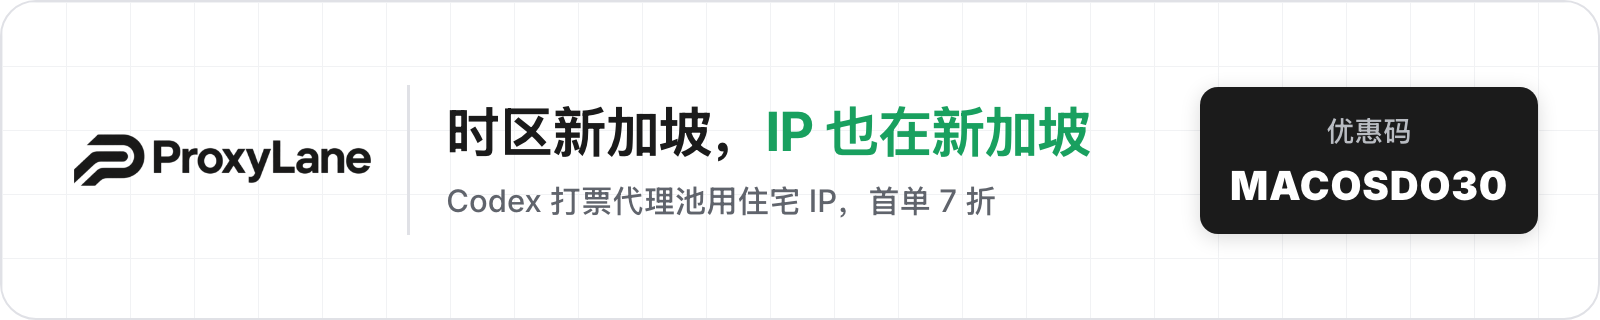
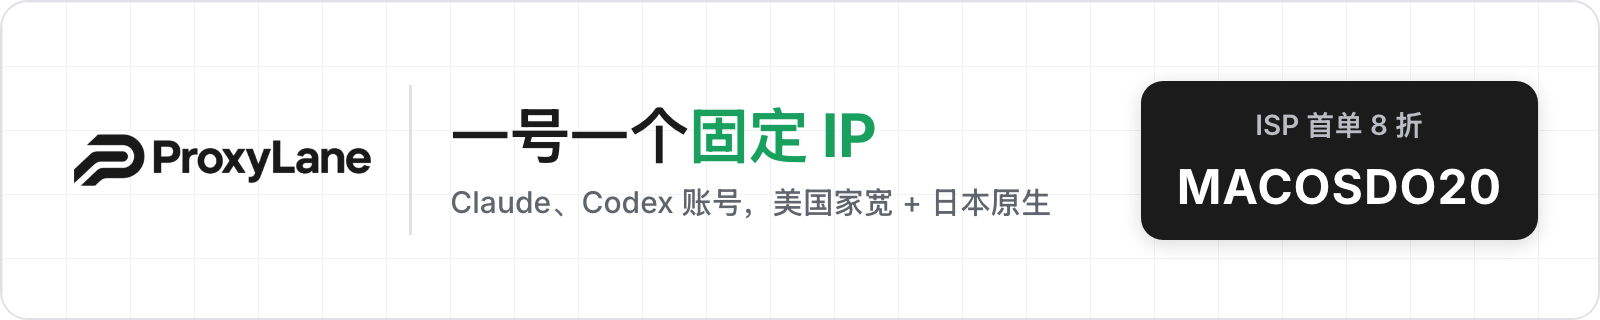
docs: update ProxyLane partner block and add per-account proxy guide

diff --git a/docs/PROXY_CN.md b/docs/PROXY_CN.md
@@ -1,0 +1,45 @@
+# 代理配置：每个账号一个独立 IP
+
+Claude、Codex、ChatGPT 账号会按登录 IP 做风控。多个账号共用一个出口 IP，或者 IP 来自机房，一个账号被封往往会连带其他账号。最稳的做法是：**一个账号绑定一个固定的家宽 / ISP IP，之后不再更换。**
+
+Sub4API 支持给每个账号单独设置代理，下面是完整步骤。
+
+## 1. 准备 IP
+
+每个账号准备一个静态 IP，要求：
+
+- **固定不变**：同一个账号一直用同一个 IP，不要用轮换代理。
+- **家宽或运营商 IP**：机房 IP（IDC）更容易触发验证和封号。
+- **地区与账号一致**：注册在美国的账号用美国 IP，日本账号用日本 IP。
+- **每个 IP 只给一个账号**：不要多账号共用。
+
+推荐 [ProxyLane 静态 ISP](https://proxylane.dev/go/macosdo-docs)：美国 Comcast / RCN / Verizon 家宽，日本、新加坡原生 IP，20+ 国家可选；同一账户下购买的 IP 自动分到不同网段。支持 PayPal、USDT 付款，ISP 首单使用优惠码 `MACOSDO20` 享 8 折。
+
+## 2. 导出代理列表
+
+在 ProxyLane 后台「ISP 代理」中选中要用的 IP，复制格式选 `protocol://user:pass@ip:port`，每行一个：
+
+```
+socks5://user:pass@203.0.113.10:30617
+socks5://user:pass@203.0.113.11:30618
+```
+
+如果希望 DNS 也走代理，可以把前缀改成 `socks5h://`（Sub4API 支持 SOCKS5H 远程 DNS）。
+
+## 3. 导入 Sub4API
+
+1. 打开「IP管理」，点击「快捷添加」。
+2. 把上一步的列表粘贴进「代理列表」，每行一个，确认导入。重复的代理会自动跳过。
+3. 导入后可以用「批量测试」或「批量质量检测」确认每个 IP 都能连通。
+
+## 4. 给每个账号绑定一个 IP
+
+1. 打开账号管理，编辑账号，在「代理」中选择一个刚导入的 IP。
+2. 每个账号选不同的 IP。在「IP管理」里点开某个代理，可以在「使用该IP的账号」中确认它只绑定了一个账号。
+3. OpenAI 账号的「请求时区」建议选「跟随 IP 出口」：保存后会自动按出口 IP 所在地设置时区，让请求环境和 IP 一致。
+
+## 5. 日常注意
+
+- 不要频繁给同一个账号换 IP；确实需要更换时，换成同地区的另一个固定 IP。
+- 登录、授权（OAuth）时，浏览器也要走这个账号绑定的同一个 IP。
+- IP 到期前记得续费，续费后 IP 不变，账号无需重新绑定。

diff --git a/README.md b/README.md
@@ -2,9 +2,9 @@
 
 **TG 交流群：[t.me/macosdo](https://t.me/macosdo)**
 
-<a href="https://proxylane.dev/?utm_source=macosdo&utm_medium=partnership&utm_campaign=macosdo_sponsor_202610&utm_content=github_readme"><img src="assets/partners/proxylane.png" alt="ProxyLane 住宅代理" width="800"></a>
+<a href="https://proxylane.dev/go/macosdo-readme"><img src="assets/partners/proxylane.png" alt="ProxyLane 静态 ISP" width="800"></a>
 
-**ProxyLane 住宅代理**：195 个国家，95%+ IP 获 Scamalytics 低风险评级。账号请求时区用新加坡，打票代理池也选新加坡住宅 IP，每个账号一个固定 IP，最长保持 72 小时。中文界面，支持 USDT 付款，首次购买使用优惠码 `MACOSDO30` 享 7 折。
+**ProxyLane 静态 ISP**：Claude、Codex 账号一号一个固定 IP。美国 Comcast / RCN / Verizon 家宽，日本、新加坡原生 IP，20+ 国家，支持 PayPal、USDT。ISP 首单使用优惠码 `MACOSDO20` 享 8 折。配置方法见 [每个账号一个独立 IP](docs/PROXY_CN.md)。
 
 <div align="center">
 
